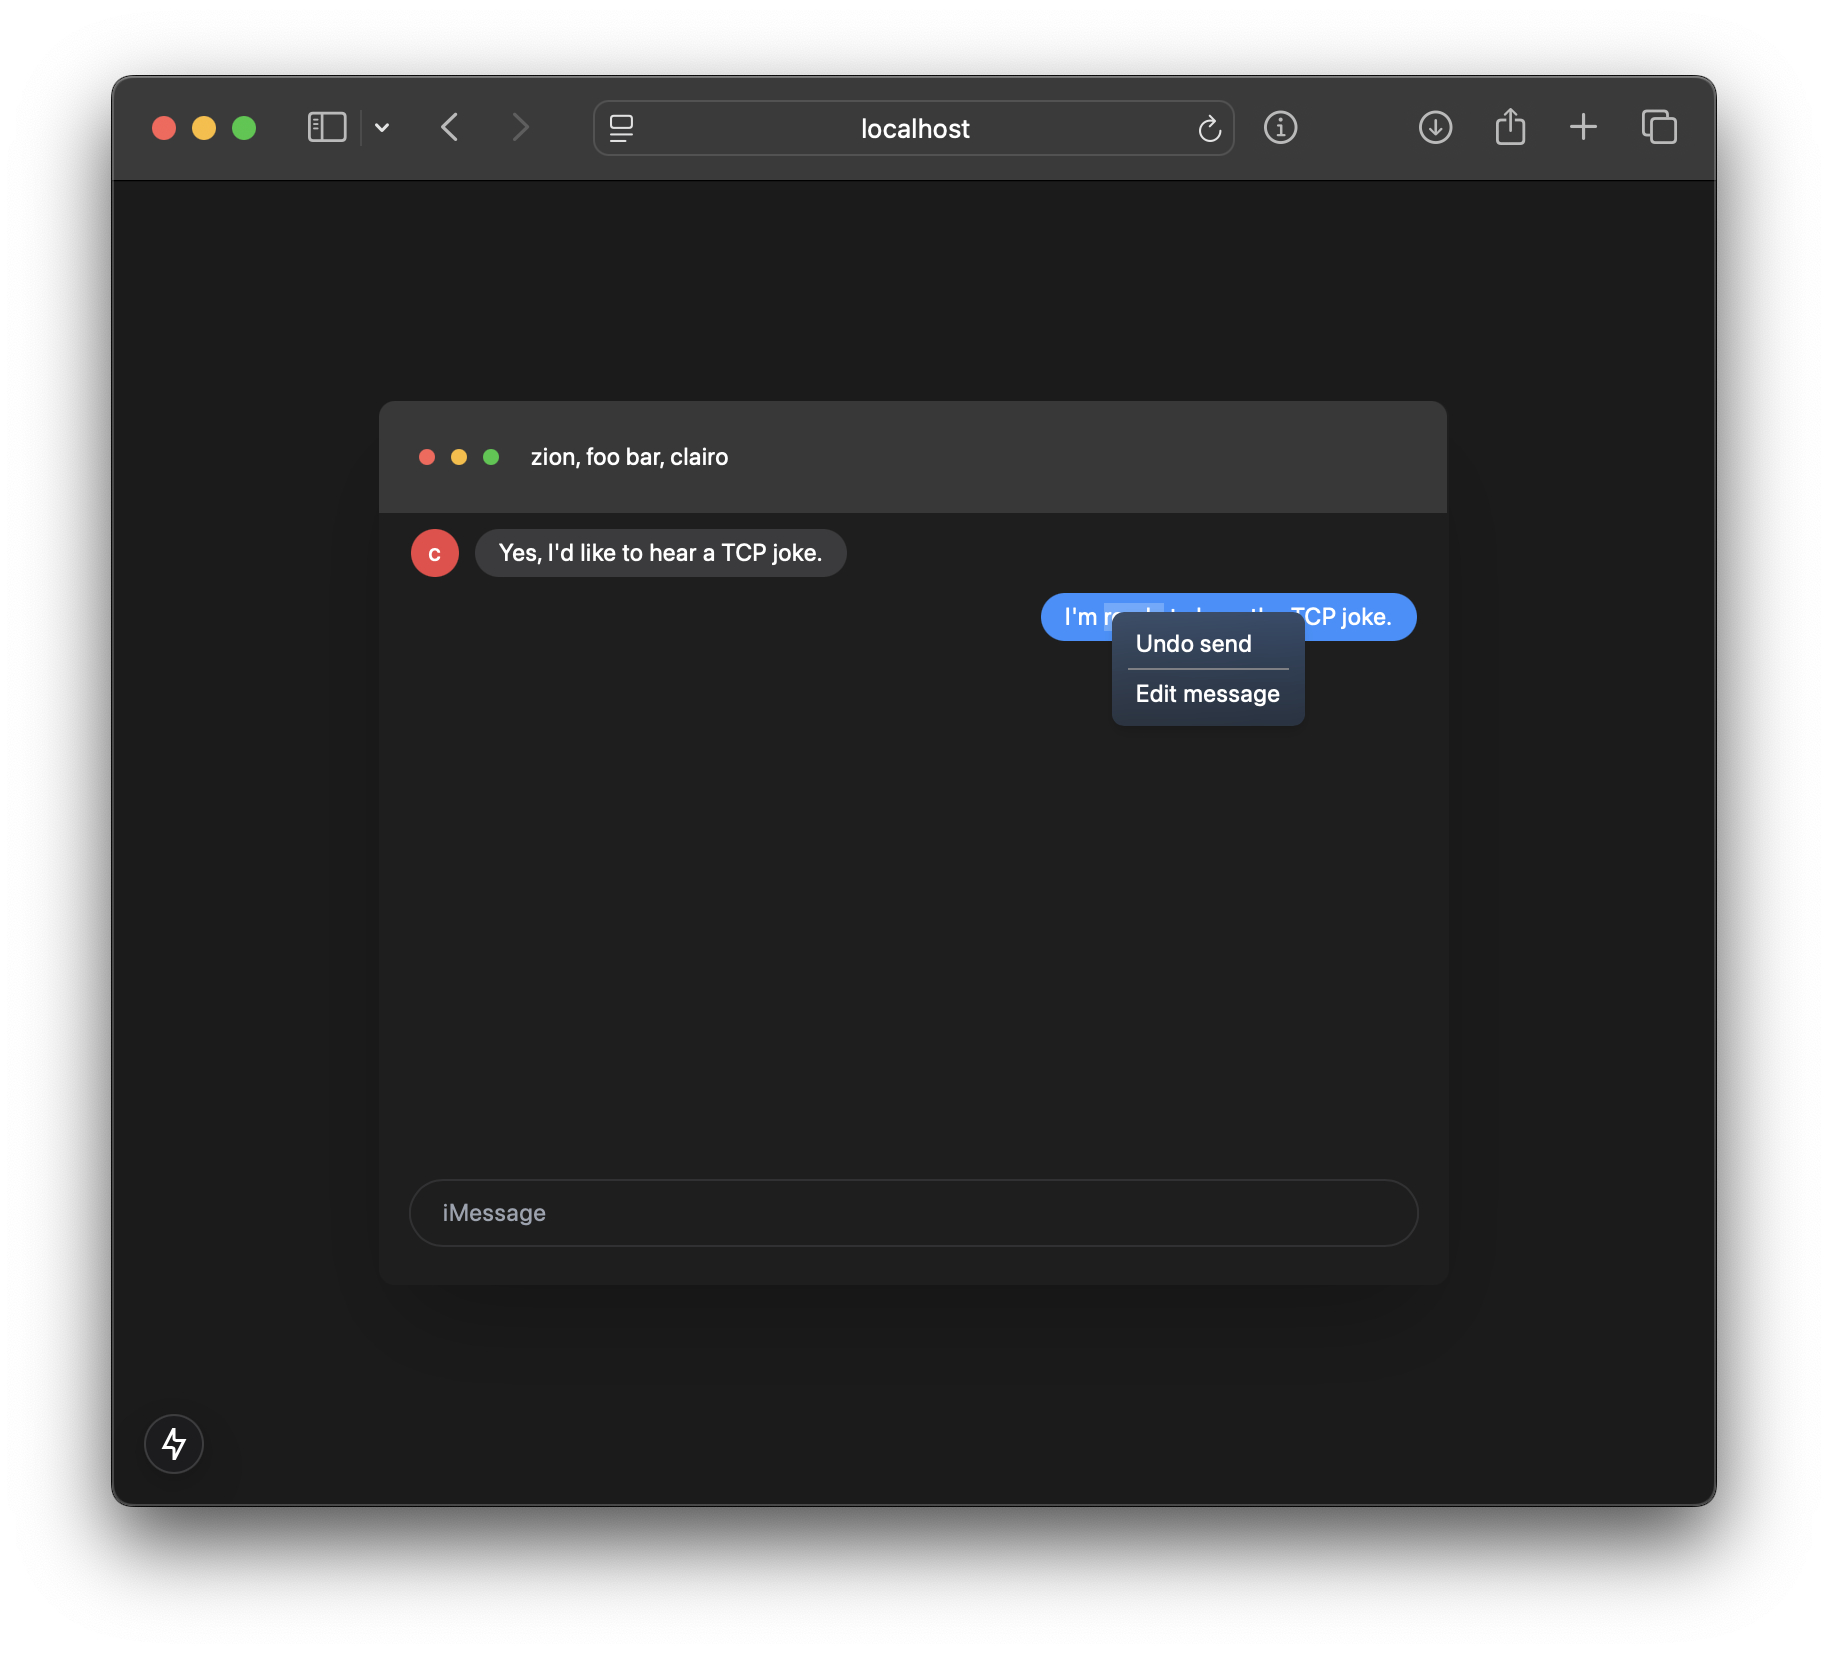
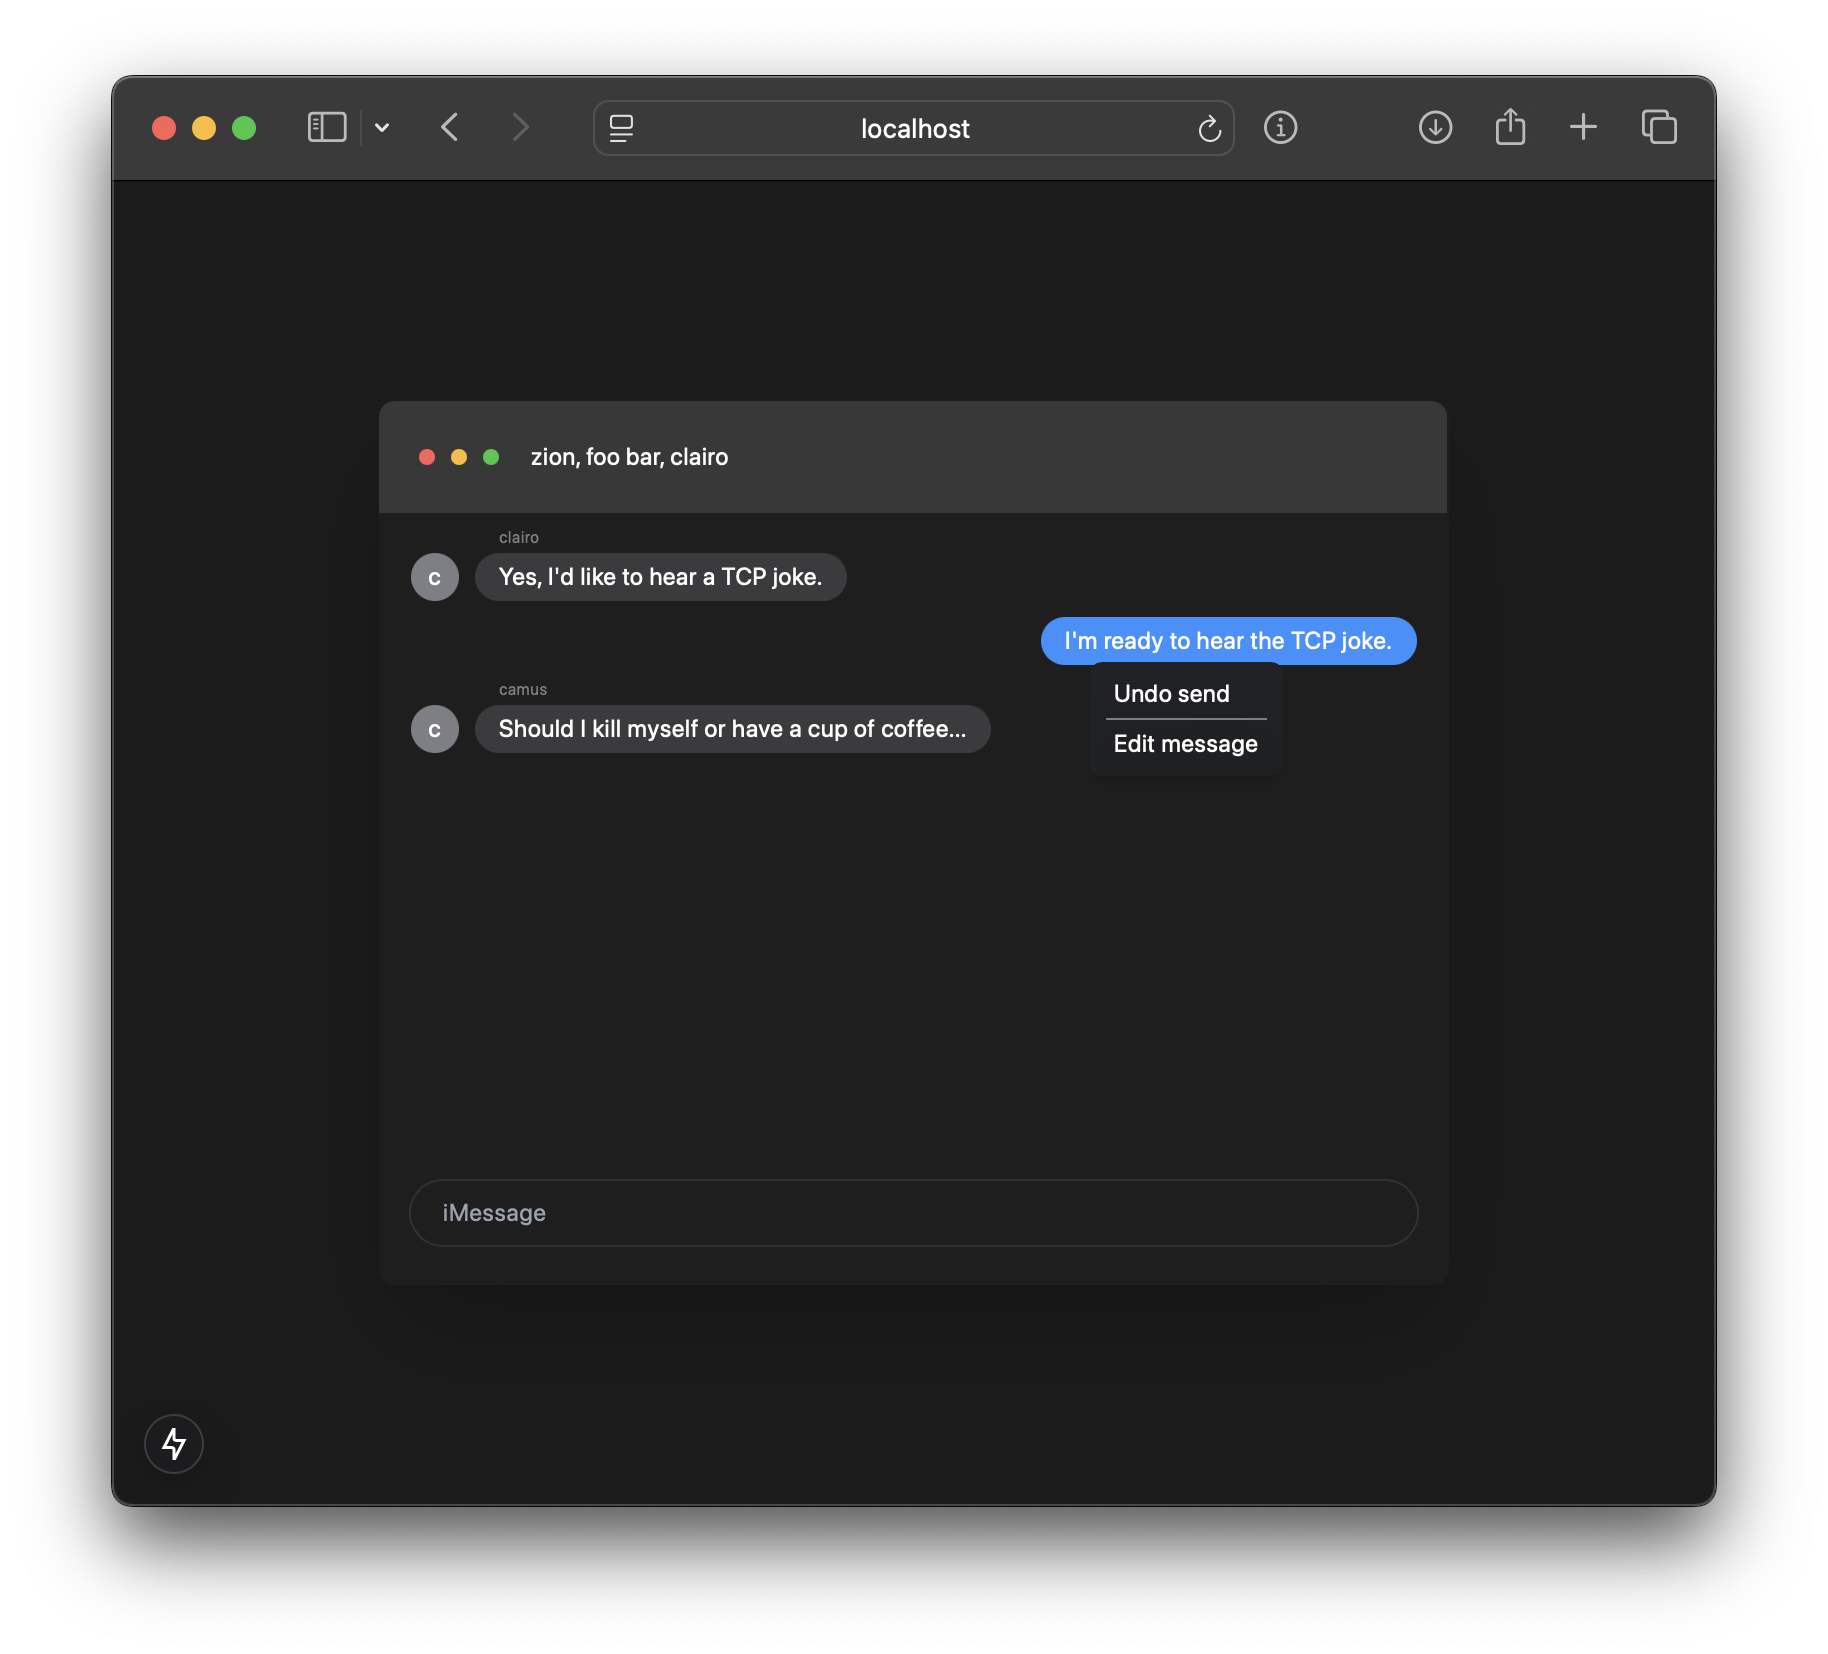
add sender name beside bubble

Changed region(s): [[0.5613, 0.3392, 0.7795, 0.4625], [0.2183, 0.4008, 0.5613, 0.4625], [0.2183, 0.3083, 0.4677, 0.37]]

diff --git a/src/components/receive-bubble.tsx b/src/components/receive-bubble.tsx
@@ -7,12 +7,15 @@ export default function ReceiveBubble({
 }) {
   return (
     <div className="w-full flex items-end gap-2">
-      <div className="min-h-6 min-w-6 rounded-full bg-red-500 flex items-center justify-center">
+      <div className="min-h-6 min-w-6 rounded-full bg-fieldOutline flex items-center justify-center">
         {user[0]}
       </div>
-      <p className="min-h-5 flex items-center bg-receiveBubble py-1 px-3 rounded-xl mr-8 animate-appear">
-        {message}
-      </p>
+      <div className="flex flex-col gap-1">
+        <p className="pl-3 text-fieldOutline text-xxs">{user}</p>
+        <p className="min-h-5 flex items-center bg-receiveBubble py-1 px-3 rounded-xl mr-8 animate-appear">
+          {message}
+        </p>
+      </div>
     </div>
   );
 }

diff --git a/tailwind.config.ts b/tailwind.config.ts
@@ -14,6 +14,9 @@ export default {
         medium: ["SF-Pro-Display-Medium", "Helvetica", "sans-serif"],
         bold: ["SF-Pro-Display-Bold", "Helvetica", "sans-serif"],
       },
+      fontSize: {
+        xxs: ['0.5rem', '0.5rem'],
+      },
       colors: {
         background: "var(--background)",
         foreground: "var(--foreground)",
